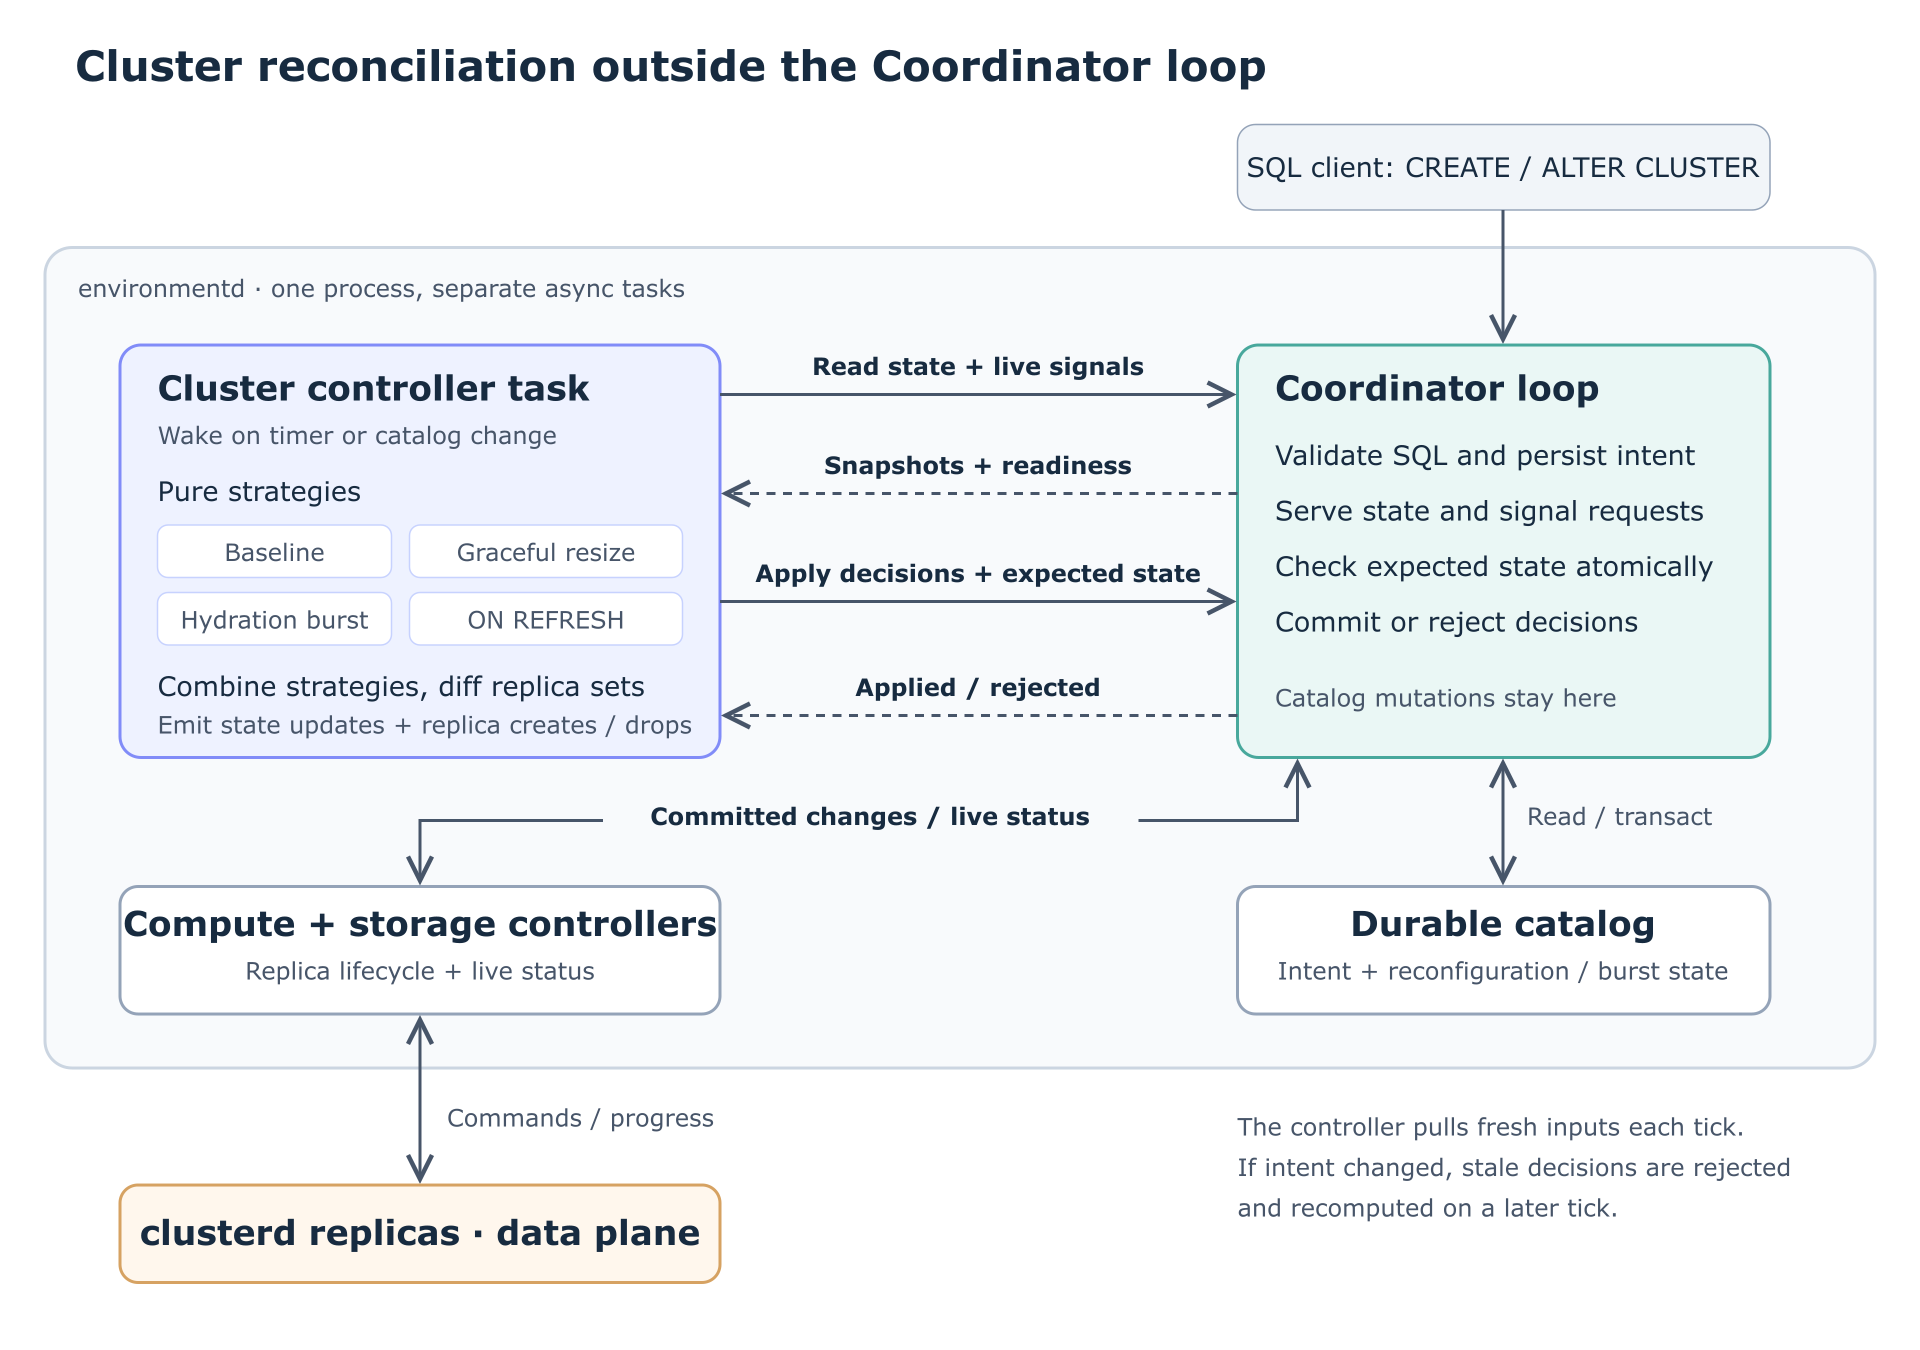
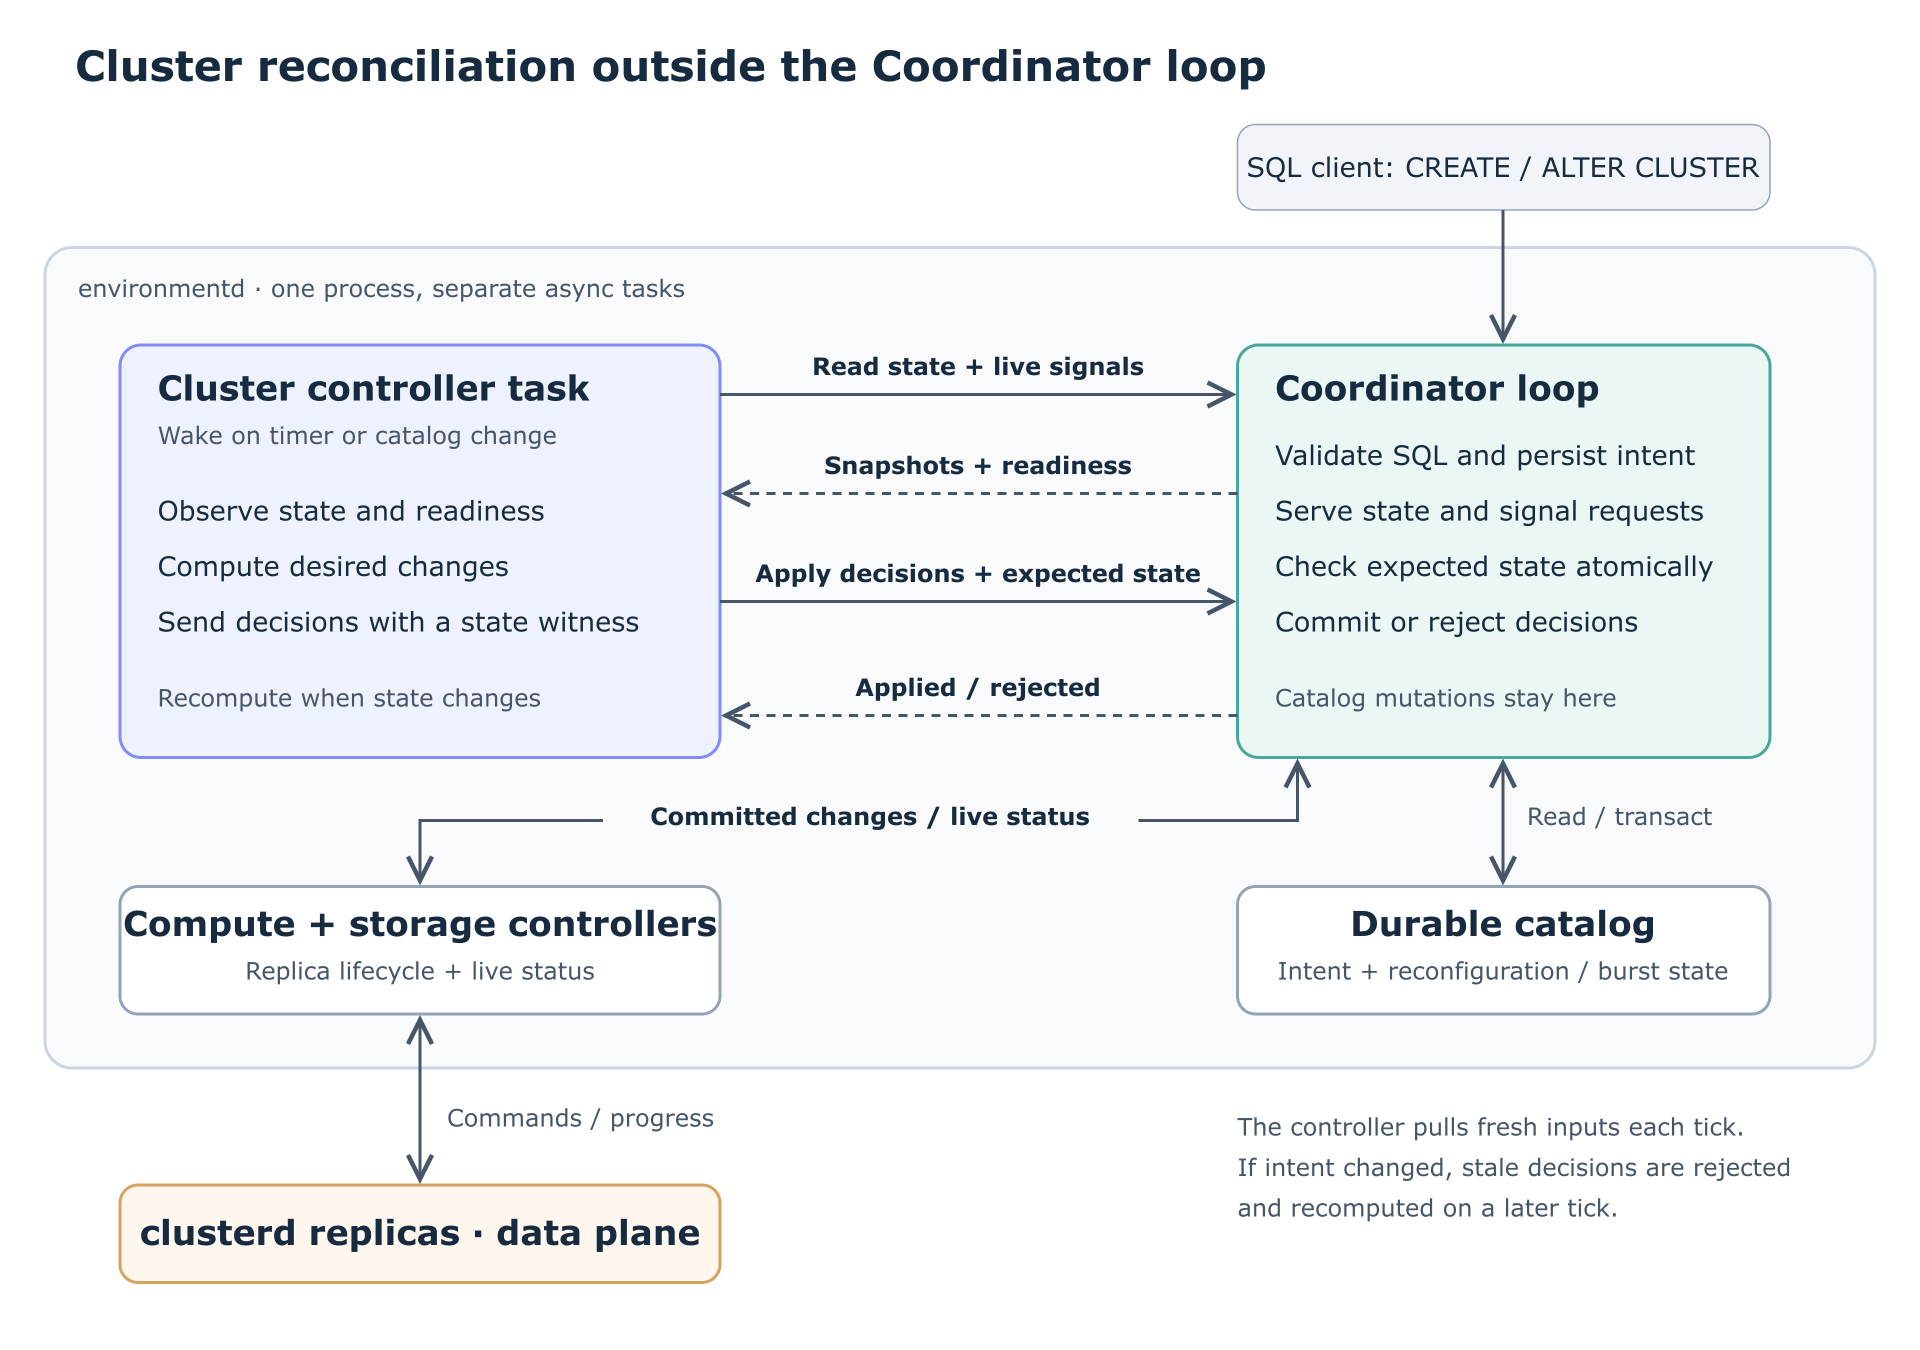
more cluster controller changes

Changed region(s): [[0.0938, 0.3422, 0.3438, 0.4667], [0.0625, 0.4978, 0.3438, 0.56]]

diff --git a/posts/2026-10-23-cluster-controller.md b/posts/2026-10-23-cluster-controller.md
@@ -158,13 +158,12 @@ Instead, what we did is take a step back, think holistically about what the
 
 ## Cluster Controller
 
-The long-term vision for the control plane requires that `environmentd` (or
-it's replacement processes) be both vertically and horizontally scalable.
-Vertically scalable meaning that we can do more useful work when giving it more
-CPU cores. So handling larger query workloads, larger numbers of objects and
-clusters, etc. And horizontal scalable meaning that we can have multiple
-processes coordinating and sharing the control plane workload for a given
-environment.
+The long-term vision for the control plane requires that `environmentd` (or its
+replacement processes) be both vertically and horizontally scalable. Vertically
+scalable meaning that we can do more useful work when giving it more CPU cores.
+So handling larger query workloads, larger numbers of objects and clusters,
+etc. And horizontal scalable meaning that we can have multiple processes
+coordinating and sharing the control plane workload for a given environment.
 
 In our work here, we focused on vertical scalability, while making sure that
 the architecture will also work in a horizontal-scaling world.
@@ -177,7 +176,7 @@ tasks and the Coordinator loop.
 Putting that into practice with the cluster controller meant that we had to do
 roughly these things:
 
-1. Add the SQL surface for creating auto scaling strategies and kicking of
+1. Add the SQL surface for creating auto scaling strategies and kicking off
    cluster reconfigurations.
 2. Add commands and responses that the controller sends to the Coordinator.
 3. Add the new cluster controller that enacts things from #1.
@@ -197,32 +196,36 @@ signals. From that, it determines state updates that _should_ be applied, think
 creating replicas, retiring old-size replicas, retiring burst replicas. The
 controller then tries to apply those updates by sending a message to the
 coordinator that contains a "witness" of the catalog state as of which it did
-its decicions, and the Coordinator either applies those or rejects if the state
-of affected clusters or replicas has changed in between.
+its decisions, and the Coordinator atomically either applies those or rejects
+if the state of affected clusters or replicas has changed in between.
 
 This design allows the cluster controller to be modular and separate from the
 Coordinator. And it would also allow running multiple instances of it, as long
-as everyone follows the same rules for deriving _ought_ from _is_. And the
-system is self healing in the sense that it will eventually converge to the
-state that it should have.
+as everyone follows the same rules for deriving _ought_ from _is_ and the
+Coordinator prevents stale decisions from being applied. The system is self
+healing in the sense that it will eventually converge to the state that it
+should have.
 
-Additionaly, the separation via a minimal interface allows testing cluster
+Additionally, the separation via a minimal interface allows testing cluster
 controller behavior in isolation, and will enable us to swap out the
 communication channel between Coordinator and cluster controller when we have
 to, for our work on horizontal scalability.
 
-![Cluster controller and Coordinator request/reply architecture](../assets/cluster-controller/architecture.svg)
+All of the above is lovingly handwritten by me, but the LLMs are much faster at
+creating figures, so here is one bit of generated figure that summarizes the
+work, for your enjoyment:
 
-
-TODO: we also added more background tasks like this now, for the example the thing that writes down hydration history. Please look at that, and write me a short paragraph that highlights how we've added more like this, and that the approach has panned out well so far.
+![Cluster controller and Coordinator request/reply
+architecture](../assets/cluster-controller/architecture.svg)
 
 Since we finished this work, we've used a similar approach for collecting
 hydration history. A background task periodically reads hydration information
-from replicas, and writes them down through a client interface to the
-Coordinator. Both collection and regular cleaning up of old data can stay of
+from replicas and writes them down through a client interface to the
+Coordinator. Both collection and regular cleaning up of old data can stay off
 the Coordinator main loop, while using the same concurrency-control mechanisms
 that we use for regular table writes. So far, this has been a fruitful way to
-expand control-plane functionality while containing complexity.
+expand control-plane functionality while containing complexity. See the list of
+links right below for this work, if you're curious.
 
 ## Links
 
@@ -233,6 +236,8 @@ expand control-plane functionality while containing complexity.
 - [Docs: Autoscaling for hydration](https://materialize.com/docs/clusters/autoscaling/)
 - [Docs: Cluster resizing](https://materialize.com/docs/sql/alter-cluster/#resizing)
 - [Docs: SHOW CLUSTERS](https://materialize.com/docs/sql/show-clusters/)
+- [Background collection of durable object hydration history (#38347)](https://github.com/MaterializeInc/materialize/pull/38347)
+- [Durable replica hydration history (#38512)](https://github.com/MaterializeInc/materialize/pull/38512)
 
 For readers interested in the shared controller architecture:
 
